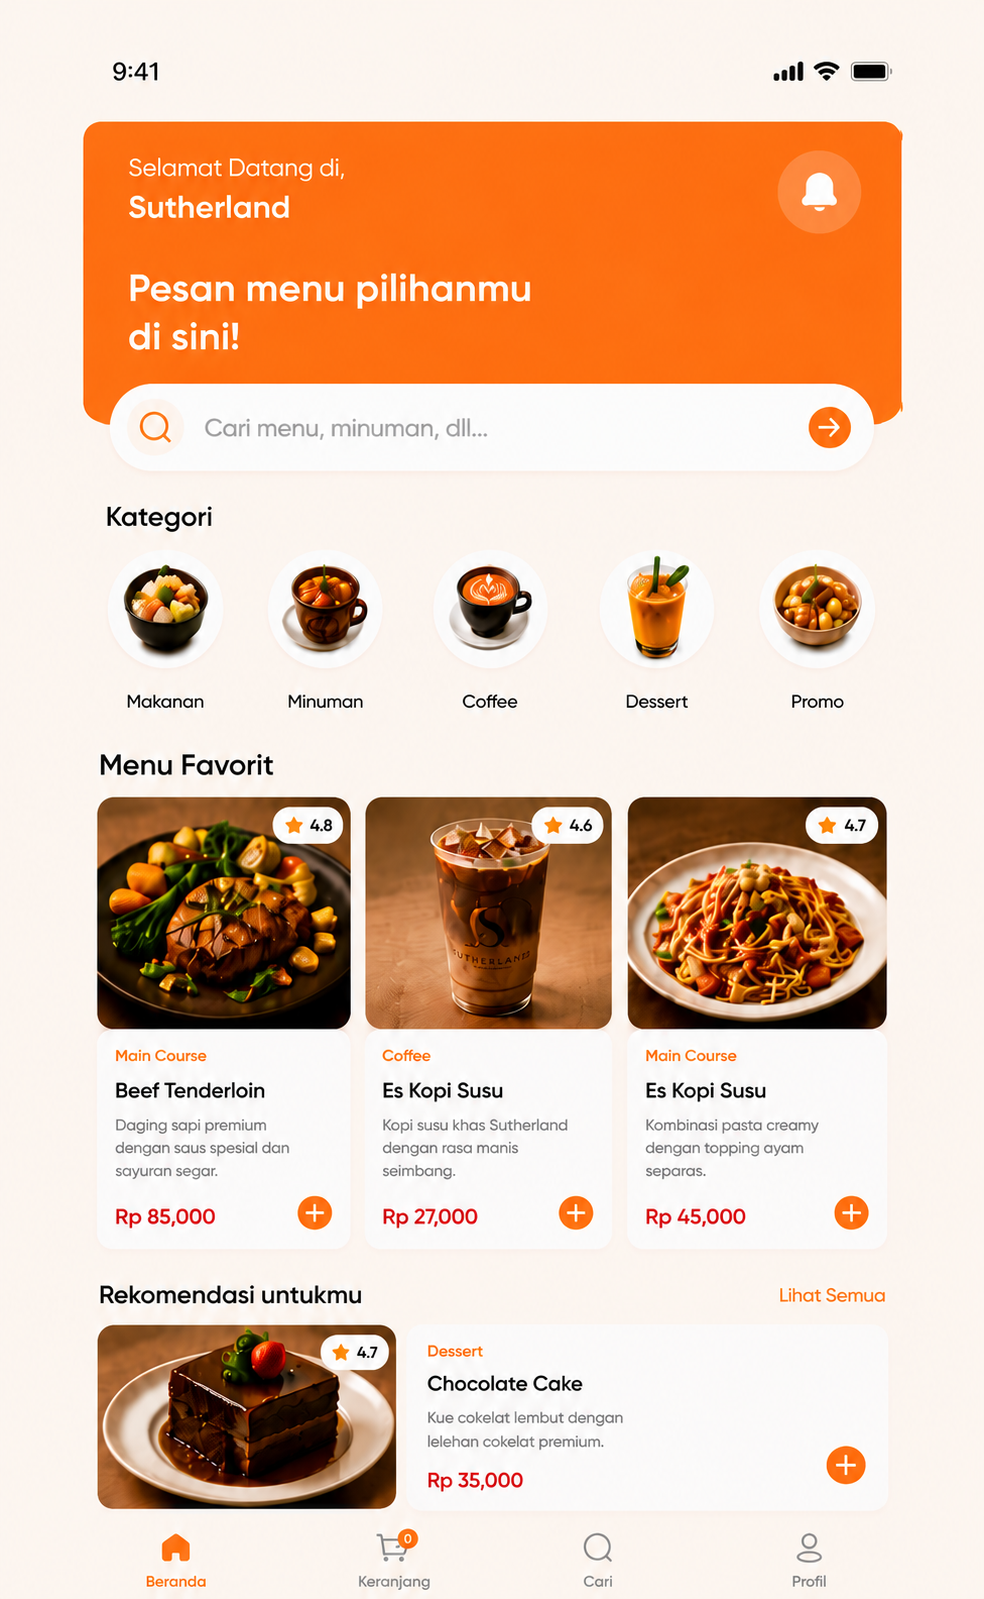
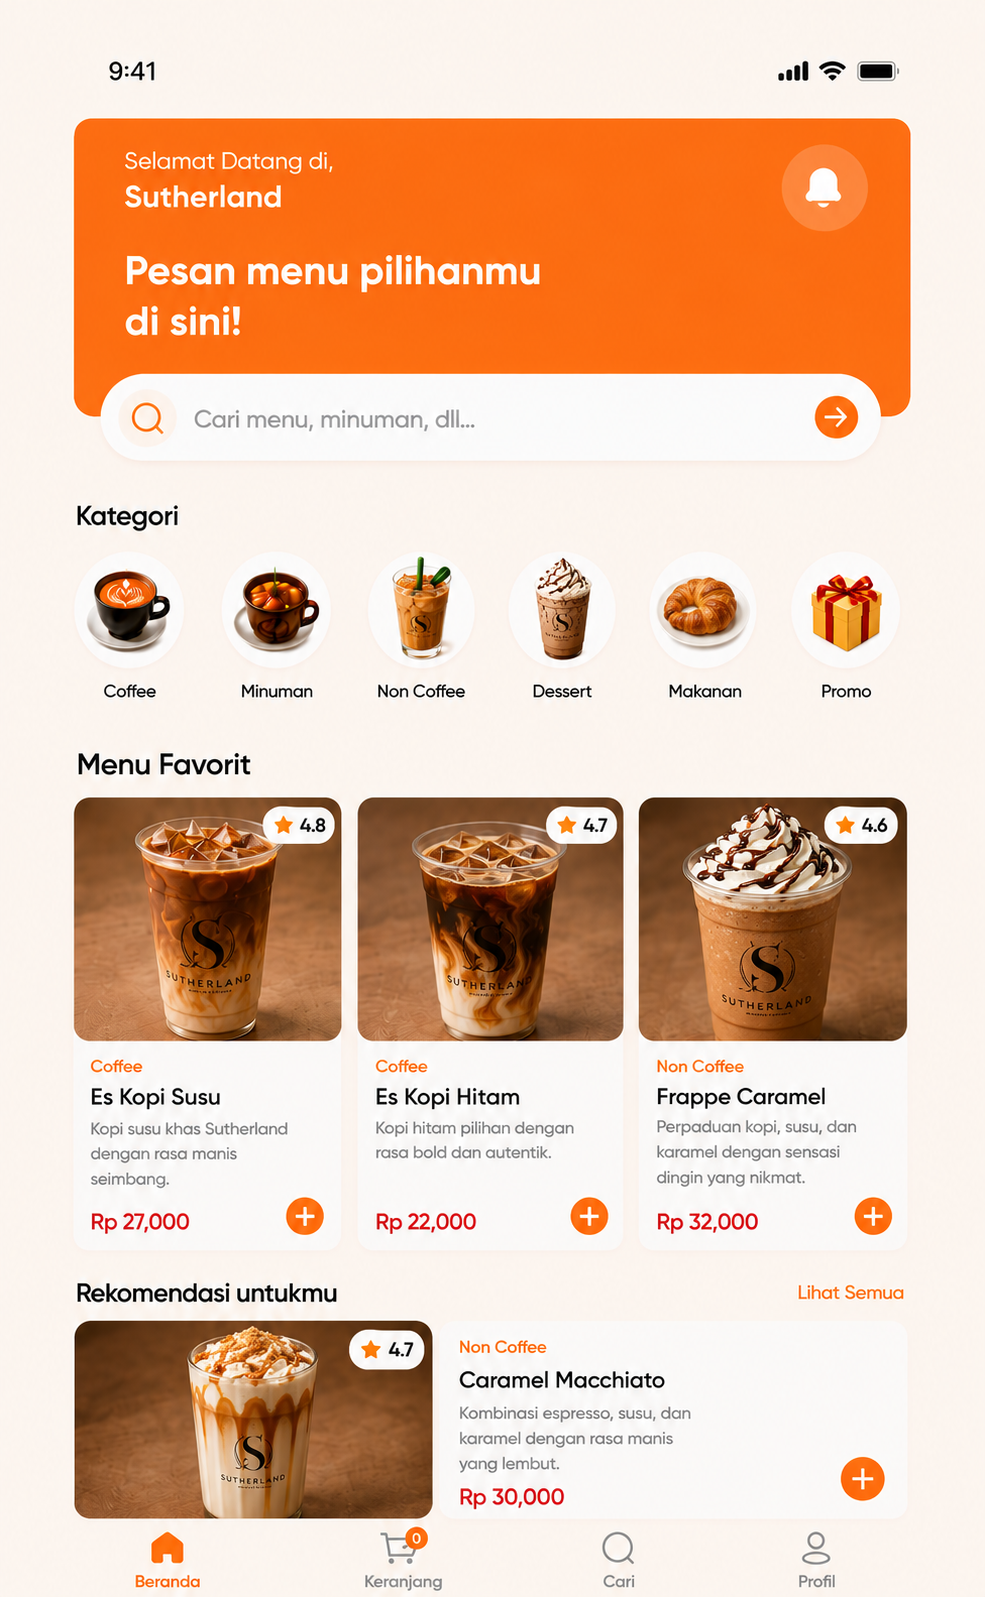
perbaikan gambar

diff --git a/resources/views/welcome.blade.php b/resources/views/welcome.blade.php
@@ -122,9 +122,9 @@
       }
       .device-frame {
         box-shadow: 
-          0 0 0 3px #2c2c2e,
-          0 0 0 8px #1c1c1e,
-          0 0 0 10px #3a3a3c,
+          0 0 0 2px #2c2c2e,
+          0 0 0 4px #1c1c1e,
+          0 0 0 5px #3a3a3c,
           0 25px 60px rgba(0,0,0,0.2),
           0 10px 20px rgba(0,0,0,0.1);
       }
@@ -275,13 +275,13 @@
 <!-- Wrapper with exact dimensions of the mockup so children are positioned relative to it -->
 <div class="relative welcome-mockup-container @container" style="aspect-ratio: 984/1599;">
 <!-- 3D Modern Smartphone Mockup -->
-<div class="w-full h-full device-frame rounded-[2.5rem] bg-[#1c1c1e] p-[6px] overflow-hidden transition-transform duration-700 hover:scale-[1.02]">
-                <div class="w-full h-full rounded-[2.2rem] bg-[#fcf5ee] overflow-hidden relative">
+<div class="w-full h-full device-frame rounded-[2rem] bg-[#1c1c1e] p-[3px] overflow-hidden transition-transform duration-700 hover:scale-[1.02]">
+                <div class="w-full h-full rounded-[1.8rem] bg-[#fcf5ee] overflow-hidden relative">
                     <!-- Screen Content -->
                     <img alt="Menu Digital Sutherland" class="w-full h-full object-cover" src="{{ asset('assets/images/menu-sutherland.png') }}?v=4"/>
                 </div>
 <!-- Dynamic Island Mockup -->
-<div class="absolute top-[3.5cqw] left-1/2 -translate-x-1/2 w-[28cqw] h-[5cqw] bg-black rounded-full"></div>
+<div class="absolute top-[2.5cqw] left-1/2 -translate-x-1/2 w-[25cqw] h-[4cqw] bg-black rounded-full"></div>
 </div>
 <!-- Floating Enhanced Glassmorphism Badge -->
 <div class="absolute -right-[25cqw] top-[20%] glass-card p-[4.5cqw] rounded-[5cqw] flex items-center gap-[3.5cqw] w-[65cqw] z-30 transition-all duration-500 hover:translate-x-[-4px]">
